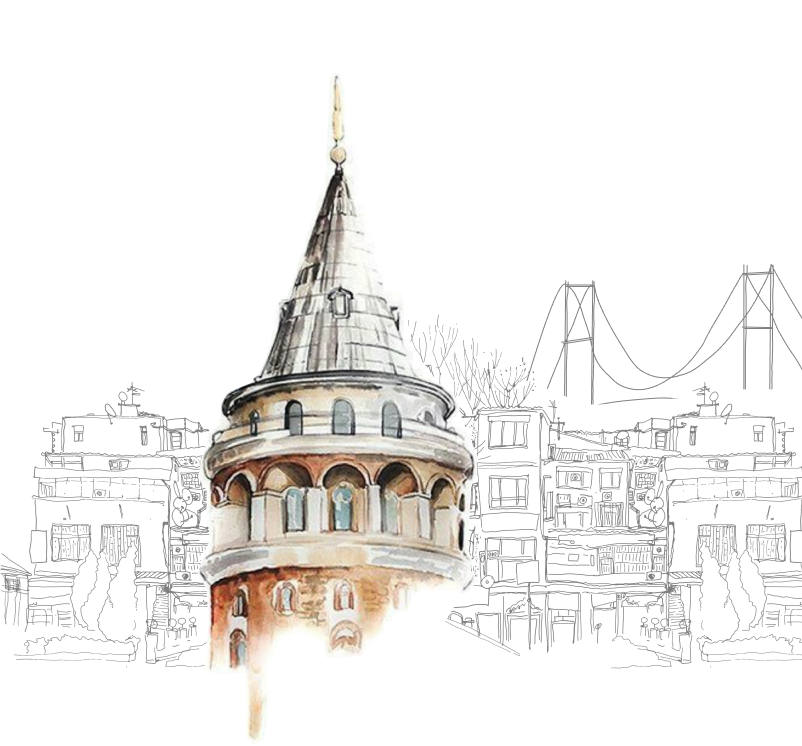
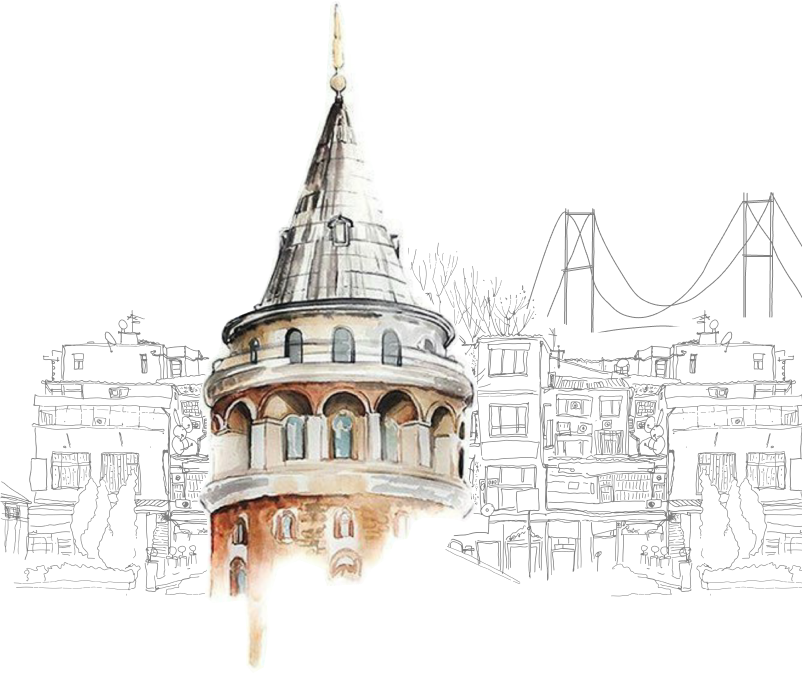
homepage updated

Changed region(s): [[0.0, 0.0, 1.0, 0.9036], [0.9975, 0.3427, 1.0, 0.3739]]

diff --git a/css/app.css b/css/app.css
@@ -100,9 +100,9 @@ header.main-header {
   -webkit-box-pack: justify;
   -ms-flex-pack: justify;
   justify-content: space-between;
-  -webkit-box-align: center;
-  -ms-flex-align: center;
-  align-items: center; }
+  -webkit-box-align: start;
+  -ms-flex-align: start;
+  align-items: flex-start; }
   @media only screen and (max-width: 878px) {
     .main-header__container {
       display: block; } }
@@ -280,6 +280,9 @@ span.main-footer__copyright {
     span.main-footer__copyright {
       text-align: center; } }
 
+section.main-hero {
+  margin-top: -70px; }
+
 .main-hero__container {
   overflow: hidden; }
   .main-hero__container .flexible {
@@ -293,6 +296,7 @@ span.main-footer__copyright {
     align-items: center; }
   .main-hero__container h1 {
     margin: 0;
+    margin-top: 70px;
     padding-left: 100px;
     text-shadow: 1px 3px 5px rgba(0, 0, 0, 0.5);
     color: #000;
@@ -592,7 +596,10 @@ section.homepage__gallery {
         height: 500px; }
 
 section.our-menu {
-  padding: 10px 0 50px; }
+  padding: 10px 0 256px;
+  background-image: url(../img/menu-bg.jpg) ;
+  background-position: right bottom ;
+  background-repeat: no-repeat ; }
   section.our-menu h1.our-menu__title {
     margin-bottom: 0;
     text-align: center;
@@ -648,8 +655,5 @@ section.our-menu {
       margin-bottom: 0;
       font-size: 12px;
       font-weight: 300; }
-
-img.our-menu__graphic {
-  width: 100%; }
 
 /*# sourceMappingURL=app.css.map */

diff --git a/scss/doPXL/_pages/__menu.scss b/scss/doPXL/_pages/__menu.scss
@@ -1,5 +1,10 @@
 section.our-menu {
-  padding: 10px 0 50px;
+  padding: 10px 0 256px;
+  @include background(
+    $image: '../img/menu-bg.jpg',
+    $position: 'right bottom',
+    $repeat: 'no-repeat'
+  );
 
   h1.our-menu__title {
     margin-bottom: 0;
@@ -71,8 +76,4 @@ section.our-menu {
       font-weight: 300;
     }
   }
-}
-
-img.our-menu__graphic {
-  width: 100%;
 }

diff --git a/menu.html b/menu.html
@@ -291,7 +291,6 @@
               <p>kıtır sarımsaklı ekmek ve konya obruk peyniri rendesi ile</p>
             </div><!-- item -->
           </div><!-- block -->
-          <img src="img/menu-bg.jpg" alt="" class="our-menu__graphic">
         </div>
       </div>
     </div>

diff --git a/scss/doPXL/_pages/__home.scss b/scss/doPXL/_pages/__home.scss
@@ -1,3 +1,7 @@
+section.main-hero {
+  margin-top: -70px;
+}
+
 .main-hero__container {
   overflow: hidden;
   .flexible {
@@ -9,6 +13,7 @@
 
   h1 {
     margin: 0;
+    margin-top: 70px;
     padding-left: 100px;
     text-shadow: 1px 3px 5px rgba(#000, .5);
     color: #000;

diff --git a/scss/doPXL/_layout/__header.scss b/scss/doPXL/_layout/__header.scss
@@ -8,7 +8,7 @@ header.main-header {
 .main-header__container {
   @include flexible(
     $justify: 'between',
-    $items: 'center'
+    $items: 'start'
   );
   @include media('down', 878px) {
     display: block;
